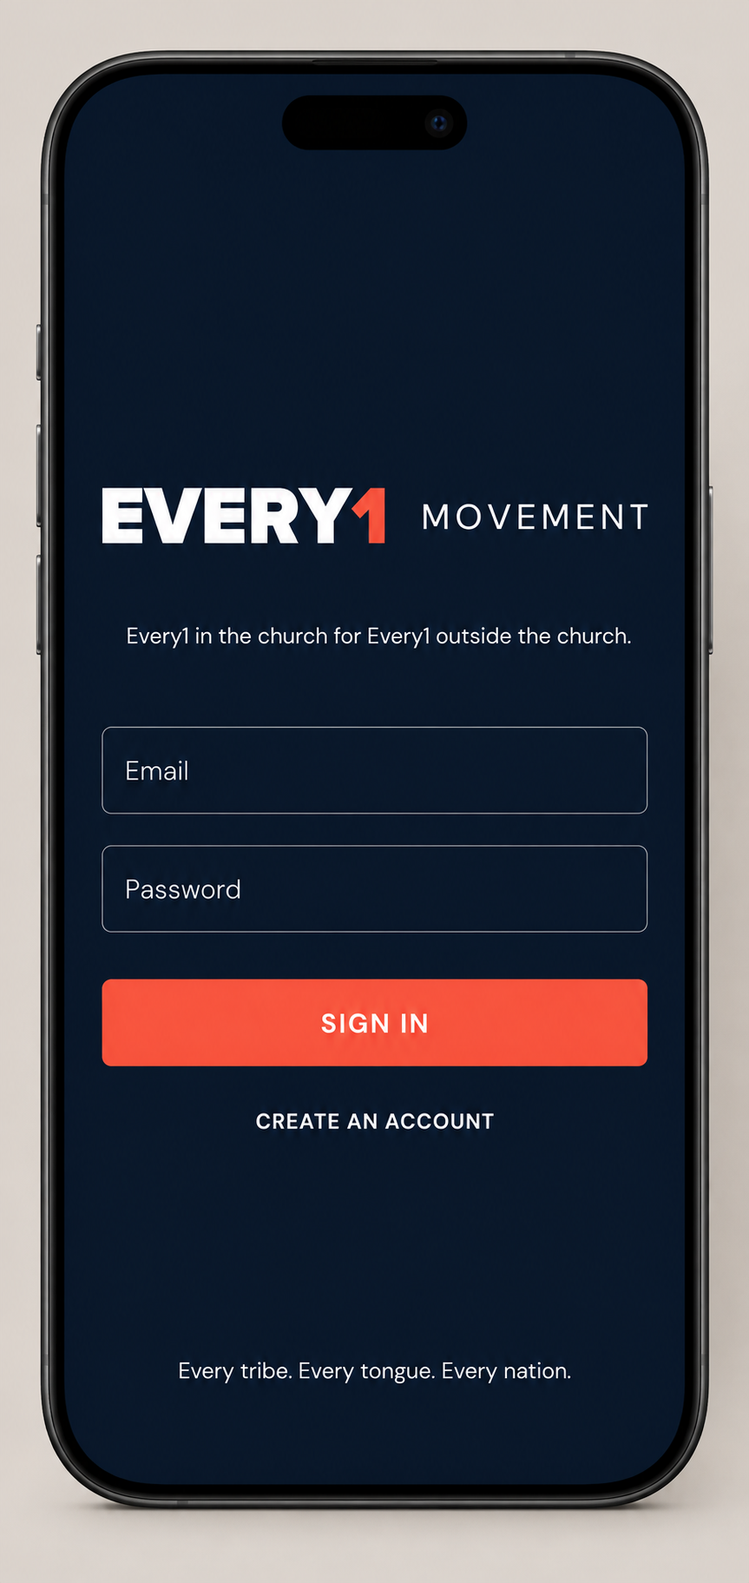
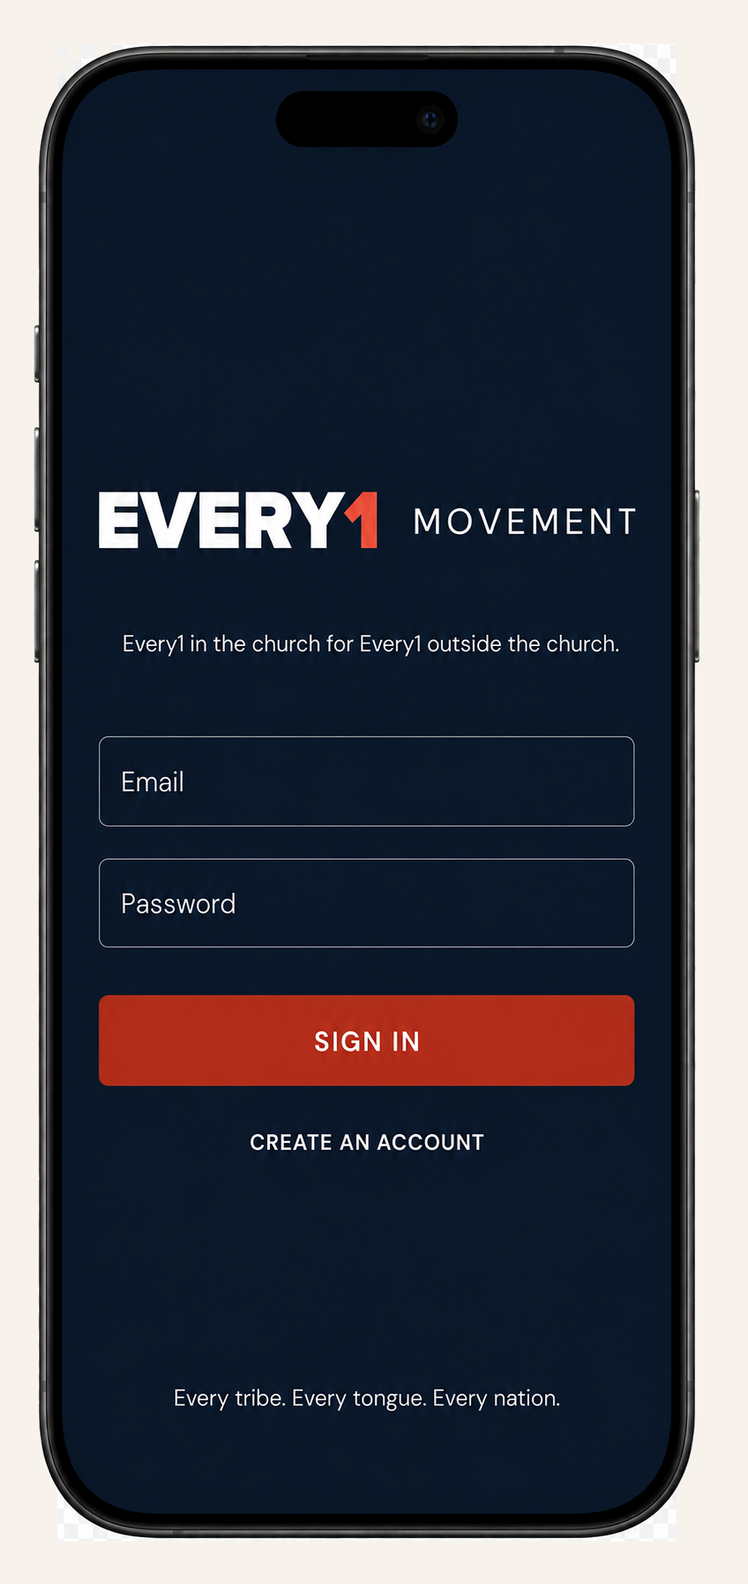
EVERY1 stands on its own, and the exception says what it covers
The recorded exception was written for "the future EVERY1 app". What it
actually covers now is the movement, the app, and the activation platform
together, so its wording catches up. Law III does not change: every other
door carries the endorsement without exception, and this is still the one
case on record.

On the EVERY1 page that means no parent lockup and no endorsement line.
Its navigation and footer carry its own mark, and the identity table says
the line is not merely optional here but wrong. Both other doors are
untouched and still carry it twice each.

Gate G6 now records the exception the way G7 already records the School's
seal. brand_check.py exempts EVERY1 and was verified in both directions:
a Revival To My City surface without the line still fails, and an EVERY1
surface without it now passes.

Four superseded marks moved to archive/ with a table mapping each to what
replaced it. The linter caught the dangling references the moment they
moved, which is L7 doing exactly its job.

The app mockup is the corrected one. Its button measures #B22D19, and
white on it is 6.40:1, so it passes AA and is 152 away from Flame in the
channels. It arrived with a transparency checkerboard painted into the
pixels, which would have read as a mistake on the page, so the background
is flattened to Parchment. The phone, the button and the label are
untouched.

diff --git a/brand/every1/index.html b/brand/every1/index.html
@@ -204,8 +204,8 @@
 
 <nav class="sitenav">
   <div class="bar">
-    <a class="logo" href="/" aria-label="THE WORD FOR ALL THE WORLD, portal home">
-      <img src="/assets/logos/the-word/the-word-horizontal-reversed.svg" alt="THE WORD FOR ALL THE WORLD">
+    <a class="logo" href="/brand/every1/" aria-label="EVERY1 Movement">
+      <img src="/assets/logos/every1/every1-horizontal-reversed.svg" alt="EVERY1 Movement">
     </a>
     <div class="links">
       <a href="/">Home</a>
@@ -227,10 +227,10 @@
   <div class="inner">
     <div class="panel">
       <div class="stageword">BURN</div>
-      <h1 class="markline"><img src="/assets/logos/every1/every1-wordmark-reversed.svg" alt="EVERY1 Movement"></h1>
+      <h1 class="markline"><img src="/assets/logos/every1/every1-bare-reversed.svg" alt="EVERY1 Movement"></h1>
       <p class="mission">Empowering the local church to do the Great Commission and walk in God's calling.</p>
       <div class="tickrule"><span class="ln"></span><span class="tk"></span><span class="ln"></span></div>
-      <div class="endorse">A ministry of THE WORD FOR ALL THE WORLD</div>
+      <div class="endorse">Every tribe. Every tongue. Every nation.</div>
     </div>
   </div>
 </div>
@@ -260,7 +260,7 @@
         <tr><th>Register</th><td>The fire itself. Loudest, fastest, most footage.</td></tr>
         <tr><th>Avatar</th><td>The 1 glyph in Flame, on its own Midnight plate. Published, and the only avatar this door uses.</td></tr>
         <tr><th>Handle</th><td>@every1movement, recorded in the Channels section of this guide.</td></tr>
-        <tr><th>Endorsement</th><td>Every surface carries the line <em>A ministry of THE WORD FOR ALL THE WORLD.</em> It is not optional.</td></tr>
+        <tr><th>Endorsement</th><td>None. This door stands on its own, which is the one recorded exception to Law III. Do not add the parent line or lock the parent mark to it.</td></tr>
       </table>
     </div>
 
@@ -279,7 +279,7 @@
         <li><strong>The 1 is the glyph.</strong> The mark leads with the numeral, and the numeral is published on its own: an app icon, a profile badge, a sticker, a shape simple enough to survive at sixty pixels with no endorsement line in frame.</li>
         <li><strong>Share cards ride along.</strong> Every official EVERY1 surface ships with a version a member can post themselves: square and vertical, footage behind the scrim, one line of Parchment type.</li>
         <li><strong>The loosest rules in the house.</strong> Official surfaces follow this guide. What a member does with the badge on their own feed is not audited; it is the movement working.</li>
-        <li><strong>The app icon comes first.</strong> The planned app follows the YouVersion model, so the glyph carries the whole identity with the parent invisible. It was drawn before the app was built, not after, and it is published here already.</li>
+        <li><strong>The icon comes first.</strong> The app and the activation platform follow the YouVersion model, so the E1 icon carries the whole identity on its own. It was drawn before the app was built, not after, and it is published here already.</li>
       </ul>
     </div>
 
@@ -322,31 +322,47 @@
       <p class="lede">Heavy caps with the numeral drawn as its own shape, standing at a quarter again the cap height of EVERY and carrying the only Flame on the mark. The 1 is the same drawing in every form, which is what lets it leave the wordmark and still be the movement. Every form is vector, so it scales without limit and recolours by changing one fill value.</p>
       <div class="marks">
         <figure class="mark">
-          <div class="art"><img src="/assets/logos/every1/every1-wordmark.svg" alt="Wordmark"></div>
-          <figcaption class="lbl"><b>Wordmark</b>The default wherever the name is introduced on a light ground.</figcaption>
+          <div class="art"><img src="/assets/logos/every1/every1-horizontal.svg" alt="Horizontal lockup"></div>
+          <figcaption class="lbl"><b>Horizontal lockup</b>The default. The name with MOVEMENT beside it, which is what makes it a movement rather than a word.</figcaption>
         </figure>
         <figure class="mark">
-          <div class="art dark"><img src="/assets/logos/every1/every1-wordmark-reversed.svg" alt="Wordmark, reversed"></div>
-          <figcaption class="lbl"><b>Wordmark, reversed</b>Midnight grounds and footage carrying a scrim, which is where this door lives.</figcaption>
+          <div class="art dark"><img src="/assets/logos/every1/every1-horizontal-reversed.svg" alt="Horizontal, reversed"></div>
+          <figcaption class="lbl"><b>Horizontal, reversed</b>Midnight grounds and scrimmed footage, which is where most of this door's work lives.</figcaption>
+        </figure>
+        <figure class="mark">
+          <div class="art"><img src="/assets/logos/every1/every1-bare.svg" alt="Bare wordmark"></div>
+          <figcaption class="lbl"><b>Bare wordmark</b>The name alone, for a surface that already says what this is: a shirt front, an app header, the second mention on a page.</figcaption>
         </figure>
         <figure class="mark">
           <div class="art"><img src="/assets/logos/every1/every1-vision.svg" alt="Vision lockup"></div>
-          <figcaption class="lbl"><b>Vision lockup</b>The wordmark with the vision above and below, both lines tracked to its exact width.</figcaption>
+          <figcaption class="lbl"><b>Vision lockup</b>The whole promise in one mark: the verse above, the name, and what it leads to below. Banners and backdrops. Never small.</figcaption>
         </figure>
         <figure class="mark">
-          <div class="art dark"><img src="/assets/logos/every1/every1-vision-reversed.svg" alt="Vision lockup, reversed"></div>
-          <figcaption class="lbl"><b>Vision lockup, reversed</b>The same lockup for Midnight and for scrimmed footage.</figcaption>
+          <div class="art dark"><img src="/assets/logos/every1/every1-promise-reversed.svg" alt="Promise lockup"></div>
+          <figcaption class="lbl"><b>Promise lockup</b>The name and the promise without the verse, for where the vision lockup is too tall.</figcaption>
         </figure>
         <figure class="mark">
-          <div class="art dark"><img src="/assets/logos/every1/every1-glyph.svg" alt="The 1 glyph"></div>
-          <figcaption class="lbl"><b>The 1 glyph</b>The avatar. Stickers, watermarks, profile marks, and the planned app, with the parent invisible.</figcaption>
+          <div class="art"><img src="/assets/logos/every1/every1-e1.svg" alt="The E1 icon"></div>
+          <figcaption class="lbl"><b>The E1 icon</b>Two characters and no words. The avatar, the app icon, the lanyard, the sticker.</figcaption>
         </figure>
         <figure class="mark">
-          <div class="art"><img src="/assets/logos/every1/every1-app-icon.svg" alt="App icon"></div>
-          <figcaption class="lbl"><b>App icon</b>The glyph on its own Midnight plate, with the safe area the rounded corners need.</figcaption>
+          <div class="art dark"><img src="/assets/logos/every1/every1-numeral-reversed.svg" alt="The 1"></div>
+          <figcaption class="lbl"><b>The 1</b>The numeral alone. A mark at small size, and the shape photography is masked into.</figcaption>
+        </figure>
+        <figure class="mark">
+          <div class="art"><img src="/assets/logos/every1/every1-usa.svg" alt="Country lockup"></div>
+          <figcaption class="lbl"><b>Country lockup</b>One per country. USA's bar is brand colours; every other country carries its own flag.</figcaption>
+        </figure>
+        <figure class="mark">
+          <div class="art dark"><img src="/assets/logos/every1/every1-uganda-reversed.svg" alt="Country lockup, reversed"></div>
+          <figcaption class="lbl"><b>Country lockup, reversed</b>Uganda, with the black segment lifted to white so the flag survives a dark ground.</figcaption>
+        </figure>
+        <figure class="mark">
+          <div class="art"><img src="/assets/logos/every1/every1-horizontal-black.svg" alt="One colour"></div>
+          <figcaption class="lbl"><b>One colour</b>Embroidery, engraving, and newsprint. The numeral collapses into the word.</figcaption>
         </figure>
       </div>
-      <div class="warn"><strong>Set in DM Sans at weight 900, converted to outlines.</strong> The mark is artwork, not live text, so it never needs the font installed and never reflows. Do not re-set it in another face, do not stretch it, and do not redraw the numeral by hand. The approved forms carry no endorsement line, so the surface sets that line itself. If a size or colour you need does not exist, request it.</div>
+      <div class="warn"><strong>Set in DM Sans at weight 900, converted to outlines.</strong> The mark is artwork, not live text, so it never needs the font installed and never reflows. Do not re-set it in another face, do not stretch it, and do not redraw the numeral by hand. No form carries an endorsement line and none should be added: this door stands on its own, which is the recorded exception and the reason the mark reads the way it does. If a size or colour you need does not exist, request it.</div>
     </div>
 
     <div class="blk">
@@ -368,9 +384,9 @@
           <tr><td class="cfp">YouTube</td><td class="cfh">@every1movement</td></tr>
           <tr><td class="cfp">Facebook</td><td class="cfh">every1movement</td></tr>
           <tr><td class="cfp">X</td><td class="cfh">@every1movement</td></tr>
-          <tr><td class="cfp">App</td><td class="cfh mut">planned · YouVersion model</td></tr>
+          <tr><td class="cfp">App</td><td class="cfh mut">EVERY1 Movement · stands alone</td></tr>
           </table>
-          <div class="cffoot">A ministry of THE WORD FOR ALL THE WORLD</div>
+          <div class="cffoot">Every tribe. Every tongue. Every nation.</div>
         </div>
       </div>
       <p class="prov">These handles are the recorded standard, not a claim that every account
@@ -388,7 +404,7 @@
         <li><strong>Midnight ground, full bleed.</strong> This is the only door that runs dark by default. Footage fills the frame wherever the layout allows.</li>
         <li><strong>Flame to the full tenth.</strong> The parent's ceiling, used fully. It still never carries text: Ember does that job.</li>
         <li><strong>Most footage, least chrome.</strong> Motion carries this door. Where a still would do for CLEAN or TRAIN, EVERY1 uses the clip.</li>
-        <li><strong>One recorded exception.</strong> The future EVERY1 app follows the YouVersion model and will not visibly promote the parent. Until it ships, EVERY1 follows this guide in full.</li>
+        <li><strong>This door is the recorded exception.</strong> EVERY1 carries no endorsement line and no parent lockup, on the YouVersion model: the movement, the app, and the activation platform are joined by people who have not yet heard of the house behind them. Law III stands for every other door. Nothing else about this guide is waived.</li>
       </ul>
     </div>
 
@@ -407,8 +423,8 @@
 
 <footer>
   <div class="wrap">
-    <a href="/" aria-label="THE WORD FOR ALL THE WORLD, portal home"><img src="/assets/logos/the-word/the-word-horizontal-reversed.svg" alt="THE WORD FOR ALL THE WORLD"></a>
-    <span>Every tribe. Every tongue. Every nation. EVERY1.</span>
+    <a href="/brand/every1/" aria-label="EVERY1 Movement"><img src="/assets/logos/every1/every1-horizontal-reversed.svg" alt="EVERY1 Movement"></a>
+    <span>Every tribe. Every tongue. Every nation.</span>
     <span>brand.theword.world · Internal use</span>
   </div>
 </footer>

diff --git a/documents/every1/index.html b/documents/every1/index.html
@@ -175,7 +175,7 @@
       </div>
       <div class="sec">
         <div class="sh"><span class="n">Section 8.</span>On the Record</div>
-        <p>A future EVERY1 app is planned on the YouVersion model and will not visibly promote the parent ministry. This exception stands on record in the Brand Guide. Until the app ships, EVERY1 follows the Brand Messaging Guide in full.</p>
+        <p>EVERY1 is the one door that stands on its own. On the YouVersion model, it carries no endorsement line and no parent lockup, across the movement, the app, and the activation platform alike. That exception stands on record in the Brand Guide. Everything else in the Brand Messaging Guide applies to it in full.</p>
       </div>
       <div class="sec">
         <div class="sh"><span class="n">Section 9.</span>Authority and Amendment</div>

diff --git a/governance/index.html b/governance/index.html
@@ -301,7 +301,7 @@
         </div>
         <div class="gate">
           <span class="badge" data-state="accent">G6</span>
-          <div><b>Missing endorsement</b><p>An initiative's name appears without "A ministry of THE WORD FOR ALL THE WORLD."</p></div>
+          <div><b>Missing endorsement</b><p>An initiative's name appears without "A ministry of THE WORD FOR ALL THE WORLD." One recorded exception: EVERY1, which stands on its own across the movement, the app, and the activation platform. On an EVERY1 surface the line is not merely optional, it is wrong, and so is a parent lockup. Revival To My City and the School of the Local Church carry it without exception.</p></div>
         </div>
         <div class="gate">
           <span class="badge" data-state="accent">G7</span>

diff --git a/brand/index.html b/brand/index.html
@@ -961,7 +961,7 @@
         <div class="word">BURN</div>
         <div class="name">EVERY1 Movement</div>
         <div class="desc">Empowering the local church to do the Great Commission and walk in God's calling.</div>
-        <div class="endorse">A ministry of THE WORD FOR ALL THE WORLD</div>
+        <div class="endorse">Stands on its own. The one recorded exception to Law III.</div>
         <dl class="ident">
           <div><dt>Ground</dt><dd>Midnight, full bleed wherever it can be.</dd></div>
           <div><dt>Type</dt><dd>Parchment on Midnight. Ember for links and buttons.</dd></div>

diff --git a/components/index.html b/components/index.html
@@ -885,7 +885,7 @@
             <h3 class="sub">Rules</h3>
             <ul class="rules">
           <li>Required on every initiative surface. Law III.</li>
-          <li>One recorded exception: the future EVERY1 app, on the YouVersion model.</li>
+          <li>One recorded exception: EVERY1, which stands on its own across the movement, the app, and the activation platform, on the YouVersion model. Every other initiative carries the line.</li>
           <li>Vanity domains redirect into the initiative's page. They never become separate homes.</li>
             </ul>
           </div>

diff --git a/assets/index.html b/assets/index.html
@@ -806,7 +806,7 @@
         <div class="pack">
           <h3>EVERY1 Movement</h3>
           <p>The approved EVERY1 wordmark, the vision lockup, and the 1 glyph, in every published form.</p>
-          <a href="/assets/downloads/every1-logos.zip?v=7.1" download>Download · 52 KB</a>
+          <a href="/assets/downloads/every1-logos.zip?v=7.1" download>Download · 49 KB</a>
         </div>
       </div>
     </div>

diff --git a/tools/gen_docs.py b/tools/gen_docs.py
@@ -94,7 +94,28 @@ def nav_cobrand(slug, name, mark):
             '    </a>')
 
 
+# EVERY1 is the recorded exception. Its nav carries its own mark and links to its
+# own page, because a parent wordmark in the corner is exactly the lockup this door
+# does not have. The text links beside it still reach the rest of the portal.
+NAV_EVERY1 = """    <a class="logo" href="/brand/every1/" aria-label="EVERY1 Movement">
+      <img src="/assets/logos/every1/every1-horizontal-reversed.svg" alt="EVERY1 Movement">
+    </a>"""
+
+FOOT_EVERY1 = """
+<footer>
+  <div class="wrap">
+    <a href="/brand/every1/" aria-label="EVERY1 Movement"><img src="/assets/logos/every1/every1-horizontal-reversed.svg" alt="EVERY1 Movement"></a>
+    <span>Every tribe. Every tongue. Every nation.</span>
+    <span>brand.theword.world · Internal use</span>
+  </div>
+</footer>
+
+</body>
+</html>
+"""
+
 NAV_COBRAND = {
+    "every1": NAV_EVERY1,
     "revival-to-my-city": nav_cobrand("revival-to-my-city", "Revival To My City",
                                       "/assets/logos/rtmc/rtmc-cobrand.svg"),
     "school-of-the-local-church": nav_cobrand("school-of-the-local-church", "School of the Local Church",
@@ -297,7 +318,7 @@ e1_msg += sec(6, "The First Three Steps",
 e1_msg += sec(7, "The Words It Carries",
     keywords(["EVERY1 in the church for EVERY1 outside the church", "You are the minister", "Fire starts fire", "A lifestyle, not an event"]))
 e1_msg += sec(8, "On the Record",
-    p("A future EVERY1 app is planned on the YouVersion model and will not visibly promote the parent ministry. This exception stands on record in the Brand Guide. Until the app ships, EVERY1 follows the Brand Messaging Guide in full."))
+    p("EVERY1 is the one door that stands on its own. On the YouVersion model, it carries no endorsement line and no parent lockup, across the movement, the app, and the activation platform alike. That exception stands on record in the Brand Guide. Everything else in the Brand Messaging Guide applies to it in full."))
 e1_msg += sec_authority(9, "Brand Messaging Guide")
 
 slc_msg = FOUNDATION
@@ -623,7 +644,7 @@ SUBS = [
             "<strong>Midnight ground, full bleed.</strong> This is the only door that runs dark by default. Footage fills the frame wherever the layout allows.",
             "<strong>Flame to the full tenth.</strong> The parent's ceiling, used fully. It still never carries text: Ember does that job.",
             "<strong>Most footage, least chrome.</strong> Motion carries this door. Where a still would do for CLEAN or TRAIN, EVERY1 uses the clip.",
-            "<strong>One recorded exception.</strong> The future EVERY1 app follows the YouVersion model and will not visibly promote the parent. Until it ships, EVERY1 follows this guide in full.",
+            "<strong>This door is the recorded exception.</strong> EVERY1 carries no endorsement line and no parent lockup, on the YouVersion model: the movement, the app, and the activation platform are joined by people who have not yet heard of the house behind them. Law III stands for every other door. Nothing else about this guide is waived.",
         ],
         shots=[("every1-one-to-one","One believer greeting another at the front of the tent, person to person.","31 Jul 2026"),
                ("every1-ministry-in-the-tent","Serving the seated rows individually rather than from the platform.","30 Jul 2026")],
@@ -711,16 +732,21 @@ MARKS = {
   "EVERY and carrying the only Flame on the mark. The 1 is the same drawing in every form, which is "
   "what lets it leave the wordmark and still be the movement. Every form is vector, so it scales "
   "without limit and recolours by changing one fill value.",
-  "Do not re-set it in another face, do not stretch it, and do not redraw the numeral by hand. The "
-  "approved forms carry no endorsement line, so the surface sets that line itself.",
+  "Do not re-set it in another face, do not stretch it, and do not redraw the numeral by hand. No "
+  "form carries an endorsement line and none should be added: this door stands on its own, which is "
+  "the recorded exception and the reason the mark reads the way it does.",
   "Set in DM Sans at weight 900, converted to outlines.",
   None, [
-   ("every1-wordmark",          False, "Wordmark",            "The default wherever the name is introduced on a light ground."),
-   ("every1-wordmark-reversed", True,  "Wordmark, reversed",  "Midnight grounds and footage carrying a scrim, which is where this door lives."),
-   ("every1-vision",            False, "Vision lockup",       "The wordmark with the vision above and below, both lines tracked to its exact width."),
-   ("every1-vision-reversed",   True,  "Vision lockup, reversed", "The same lockup for Midnight and for scrimmed footage."),
-   ("every1-glyph",             True,  "The 1 glyph",         "The avatar. Stickers, watermarks, profile marks, and the planned app, with the parent invisible."),
-   ("every1-app-icon",          False, "App icon",            "The glyph on its own Midnight plate, with the safe area the rounded corners need."),
+   ("every1-horizontal",        False, "Horizontal lockup",   "The default. The name with MOVEMENT beside it, which is what makes it a movement rather than a word."),
+   ("every1-horizontal-reversed", True, "Horizontal, reversed", "Midnight grounds and scrimmed footage, which is where most of this door's work lives."),
+   ("every1-bare",              False, "Bare wordmark",       "The name alone, for a surface that already says what this is: a shirt front, an app header, the second mention on a page."),
+   ("every1-vision",            False, "Vision lockup",       "The whole promise in one mark: the verse above, the name, and what it leads to below. Banners and backdrops. Never small."),
+   ("every1-promise-reversed",  True,  "Promise lockup",      "The name and the promise without the verse, for where the vision lockup is too tall."),
+   ("every1-e1",                False, "The E1 icon",         "Two characters and no words. The avatar, the app icon, the lanyard, the sticker."),
+   ("every1-numeral-reversed",  True,  "The 1",               "The numeral alone. A mark at small size, and the shape photography is masked into."),
+   ("every1-usa",               False, "Country lockup",      "One per country. USA's bar is brand colours; every other country carries its own flag."),
+   ("every1-uganda-reversed",   True,  "Country lockup, reversed", "Uganda, with the black segment lifted to white so the flag survives a dark ground."),
+   ("every1-horizontal-black",  False, "One colour",          "Embroidery, engraving, and newsprint. The numeral collapses into the word."),
   ]),
 }
 
@@ -797,7 +823,7 @@ EXTRAS = {
         <li><strong>The 1 is the glyph.</strong> The mark leads with the numeral, and the numeral is published on its own: an app icon, a profile badge, a sticker, a shape simple enough to survive at sixty pixels with no endorsement line in frame.</li>
         <li><strong>Share cards ride along.</strong> Every official EVERY1 surface ships with a version a member can post themselves: square and vertical, footage behind the scrim, one line of Parchment type.</li>
         <li><strong>The loosest rules in the house.</strong> Official surfaces follow this guide. What a member does with the badge on their own feed is not audited; it is the movement working.</li>
-        <li><strong>The app icon comes first.</strong> The planned app follows the YouVersion model, so the glyph carries the whole identity with the parent invisible. It was drawn before the app was built, not after, and it is published here already.</li>
+        <li><strong>The icon comes first.</strong> The app and the activation platform follow the YouVersion model, so the E1 icon carries the whole identity on its own. It was drawn before the app was built, not after, and it is published here already.</li>
       </ul>
     </div>
 
@@ -842,7 +868,7 @@ CHANNELS = {
             ("YouTube", "@every1movement", False),
             ("Facebook", "every1movement", False),
             ("X", "@every1movement", False),
-            ("App", "planned · YouVersion model", True),
+            ("App", "EVERY1 Movement · stands alone", True),
         ],
     ),
     "school-of-the-local-church": dict(
@@ -881,8 +907,12 @@ def channels_block(name: str, slug: str) -> str:
         '          <table>\n'
         f"{rows}"
         '          </table>\n'
-        '          <div class="cffoot">A ministry of THE WORD FOR ALL THE WORLD</div>\n'
-        '        </div>\n'
+        + (
+            '          <div class="cffoot">Every tribe. Every tongue. Every nation.</div>\n'
+            if slug == "every1"
+            else '          <div class="cffoot">A ministry of THE WORD FOR ALL THE WORLD</div>\n'
+        )
+        + '        </div>\n'
         '      </div>\n'
         '      <p class="prov">These handles are the recorded standard, not a claim that every account\n'
         '      exists. Registration status is pending confirmation against the account record. A handle\n'
@@ -934,10 +964,10 @@ MARK_DOOR_HERO = """<div class="door">
   <div class="inner">
     <div class="panel">
       <div class="stageword">{stage}</div>
-      <h1 class="markline"><img src="/assets/logos/every1/every1-wordmark-reversed.svg" alt="{name}"></h1>
+      <h1 class="markline"><img src="/assets/logos/every1/every1-bare-reversed.svg" alt="{name}"></h1>
       <p class="mission">{mission}</p>
       <div class="tickrule"><span class="ln"></span><span class="tk"></span><span class="ln"></span></div>
-      <div class="endorse">A ministry of THE WORD FOR ALL THE WORLD</div>
+      <div class="endorse">Every tribe. Every tongue. Every nation.</div>
     </div>
   </div>
 </div>
@@ -987,7 +1017,7 @@ SUB_PAGE = """
         <tr><th>Register</th><td>{register}</td></tr>
         <tr><th>Avatar</th><td>{avatar}</td></tr>
         <tr><th>Handle</th><td>{handle}</td></tr>
-        <tr><th>Endorsement</th><td>Every surface carries the line <em>A ministry of THE WORD FOR ALL THE WORLD.</em> It is not optional.</td></tr>
+        {endorserow}
       </table>
     </div>
 
@@ -1073,6 +1103,16 @@ for d in SUBS:
         if d["slug"] == "revival-to-my-city" else ""
     )
     fields["capture"] = capture
+    # EVERY1 is the recorded exception and carries no endorsement. Every other door
+    # states the line here, because for them it is not optional.
+    fields["endorserow"] = (
+        '<tr><th>Endorsement</th><td>None. This door stands on its own, which is the one '
+        'recorded exception to Law III. Do not add the parent line or lock the parent mark '
+        'to it.</td></tr>'
+        if d["slug"] == "every1"
+        else "<tr><th>Endorsement</th><td>Every surface carries the line "
+             "<em>A ministry of THE WORD FOR ALL THE WORLD.</em> It is not optional.</td></tr>"
+    )
     html = HEAD.format(title=f"{d['name']} · Initiative Brand Guide", extra_css=SUB_CSS,
                        og_title=f"{d['name']} · Initiative Brand Guide",
                        og_desc=f"How {d['name']} looks under the parent brand. {d['mission']}",
@@ -1084,7 +1124,7 @@ for d in SUBS:
         html = html.replace("/assets/logos/the-word/the-word-horizontal-reversed.svg",
                             "/assets/logos/the-word/the-word-horizontal.svg", 1)
     html += SUB_PAGE.format(shots=shots, rules=rules, **fields)
-    html += FOOT
+    html += FOOT_EVERY1 if d["slug"] == "every1" else FOOT
     outdir = os.path.join(REPO, "brand", d["slug"])
     os.makedirs(outdir, exist_ok=True)
     path = os.path.join(outdir, "index.html")

diff --git a/tools/brand_check.py b/tools/brand_check.py
@@ -39,7 +39,10 @@ GENERIC_FONTS = {
     "ui-monospace", "menlo", "courier new", "cursive", "initial", "unset", "revert",
 }
 
-INITIATIVES = ["Revival To My City", "EVERY1", "School of the Local Church"]
+# EVERY1 is absent on purpose. It is the recorded exception to Law III and carries no
+# endorsement line, so flagging its absence would fail a surface for being correct.
+INITIATIVES = ["Revival To My City", "School of the Local Church"]
+EXEMPT_FROM_G6 = ["EVERY1"]
 ENDORSEMENT = "A ministry of THE WORD FOR ALL THE WORLD"
 
 

diff --git a/ai-source/audit.md b/ai-source/audit.md
@@ -25,7 +25,7 @@ An audit that was not run against the current manifest is not an audit. Fetch
 | G3 | **The prophecy** | The prophecy is paraphrased, excerpted, trimmed, or reworded. It is quoted exactly and in full, or it is absent. |
 | G4 | **Flame carrying text** | Any text set in Flame, or any text sitting directly on Flame. Fire at text size is Ember. |
 | G5 | **Text on footage without a scrim** | Type over photography or video without the Midnight scrim, or in a color other than White or Parchment. |
-| G6 | **Missing endorsement** | An initiative's name appears without "A ministry of THE WORD FOR ALL THE WORLD." |
+| G6 | **Missing endorsement** | An initiative's name appears without "A ministry of THE WORD FOR ALL THE WORLD." One recorded exception: EVERY1, which stands on its own across the movement, the app, and the activation platform. On an EVERY1 surface the line is not merely optional, it is wrong, and so is a parent lockup. Revival To My City and the School of the Local Church carry it without exception. |
 | G7 | **Governmental iconography** | Seals, crests, flags, eagles, or any device that imitates a government office. One recorded exception: the School of the Local Church's approved academic seal, on the School's own credentials only (Brand Guide §11, v5.8). The seal anywhere else, or any other seal, fails. |
 | G8 | **Unattributed authority** | A vision statement, field report, testimony, or official record published without the name of the person or office behind it. |
 | G9 | **Banned language** | Any term from the Messaging Guide's hype, corporate-polish, or churchy-insider lists, used straight rather than explained. |

diff --git a/ai/audit.md b/ai/audit.md
@@ -29,7 +29,7 @@ An audit that was not run against the current manifest is not an audit. Fetch
 | G3 | **The prophecy** | The prophecy is paraphrased, excerpted, trimmed, or reworded. It is quoted exactly and in full, or it is absent. |
 | G4 | **Flame carrying text** | Any text set in Flame, or any text sitting directly on Flame. Fire at text size is Ember. |
 | G5 | **Text on footage without a scrim** | Type over photography or video without the Midnight scrim, or in a color other than White or Parchment. |
-| G6 | **Missing endorsement** | An initiative's name appears without "A ministry of THE WORD FOR ALL THE WORLD." |
+| G6 | **Missing endorsement** | An initiative's name appears without "A ministry of THE WORD FOR ALL THE WORLD." One recorded exception: EVERY1, which stands on its own across the movement, the app, and the activation platform. On an EVERY1 surface the line is not merely optional, it is wrong, and so is a parent lockup. Revival To My City and the School of the Local Church carry it without exception. |
 | G7 | **Governmental iconography** | Seals, crests, flags, eagles, or any device that imitates a government office. One recorded exception: the School of the Local Church's approved academic seal, on the School's own credentials only (Brand Guide §11, v5.8). The seal anywhere else, or any other seal, fails. |
 | G8 | **Unattributed authority** | A vision statement, field report, testimony, or official record published without the name of the person or office behind it. |
 | G9 | **Banned language** | Any term from the Messaging Guide's hype, corporate-polish, or churchy-insider lists, used straight rather than explained. |

diff --git a/archive/assets/logos/every1/README.md b/archive/assets/logos/every1/README.md
@@ -1,0 +1,15 @@
+# EVERY1, the previous mark set
+
+Retired at v7.2, superseded by the standalone identity. Kept because an audit
+citing an earlier version has to be checkable against what that version published,
+which is the same reason retired guides live in `archive/`.
+
+| Retired | Superseded by |
+| --- | --- |
+| `every1-wordmark.svg` | `every1-bare.svg`, the name alone |
+| `every1-glyph.svg` | `every1-numeral.svg`, the 1 on its own |
+| `every1-app-icon.svg` | `every1-e1.svg`, the E1 icon |
+| `every1-vision.svg` | `every1-vision.svg`, redrawn |
+
+Nothing here is published. `archive/` is skipped by the build, so these files are
+in no manifest, no pack, and no page.

diff --git a/ai/brand-system.md b/ai/brand-system.md
@@ -284,7 +284,7 @@ Each door's channel facts are recorded in its own brand guide and collected here
 | YouTube | @every1movement |
 | Facebook | every1movement |
 | X | @every1movement |
-| App | planned · YouVersion model |
+| App | EVERY1 Movement · stands alone |
 
 ### School of the Local Church (Institution · TRAIN)
 
